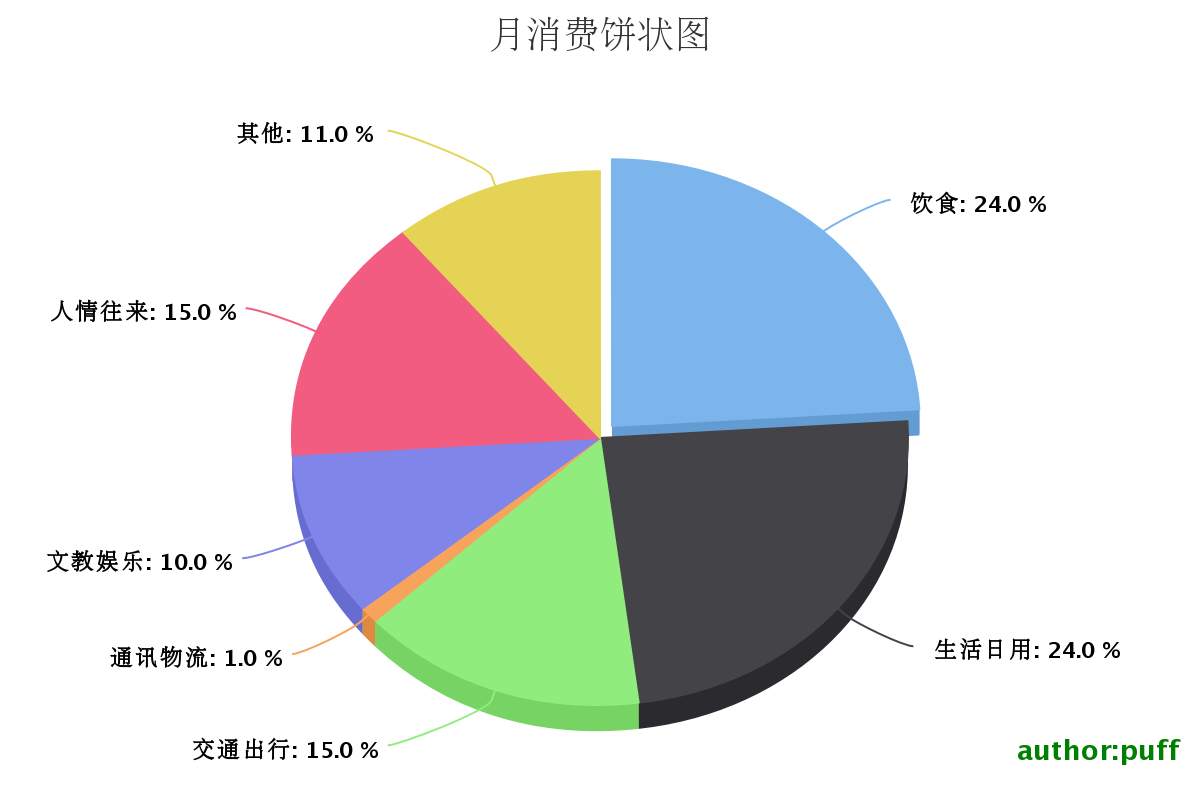
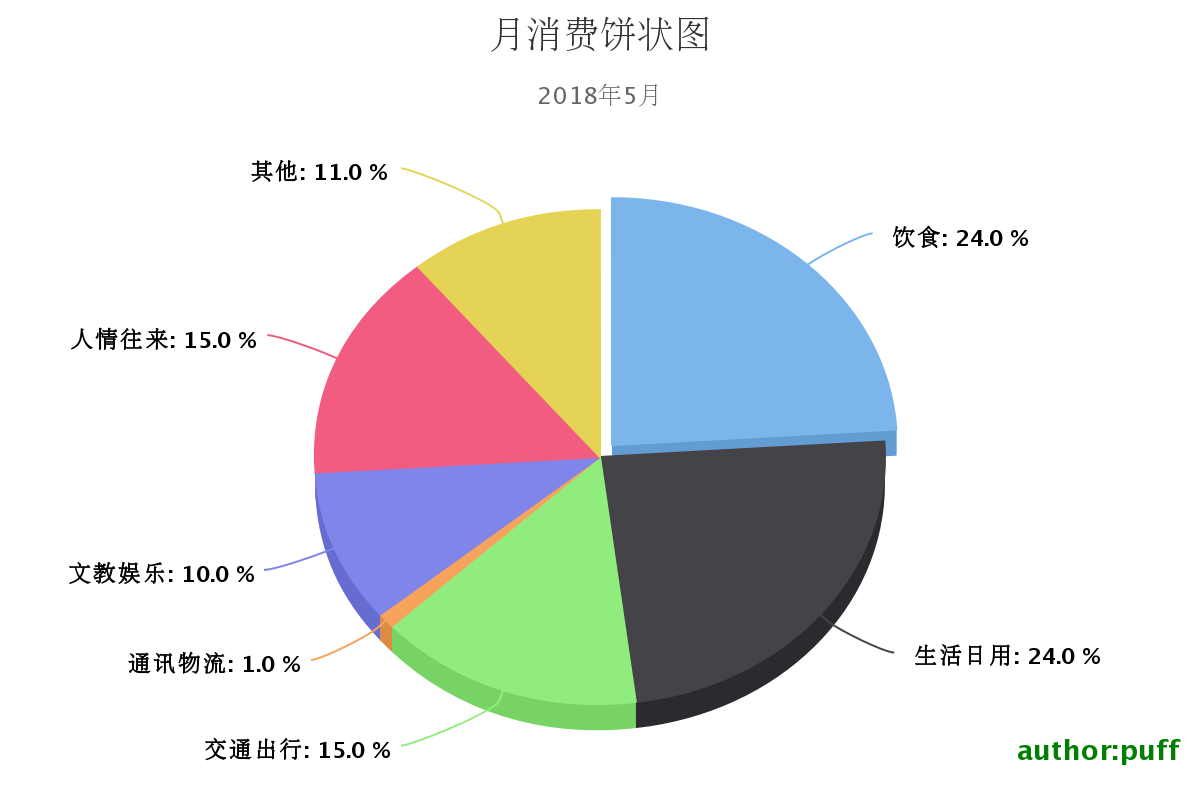
修改了html文件

diff --git a/highcharts.html b/highcharts.html
@@ -22,6 +22,9 @@
 				title:{
 					text:'月消费饼状图'
 				},
+				subtitle:{
+					text:'2018年5月'
+				},
 				chart:{
 					type:'pie',// 定义图标类型为饼状图
 					options3d:{// 设置3d信息
